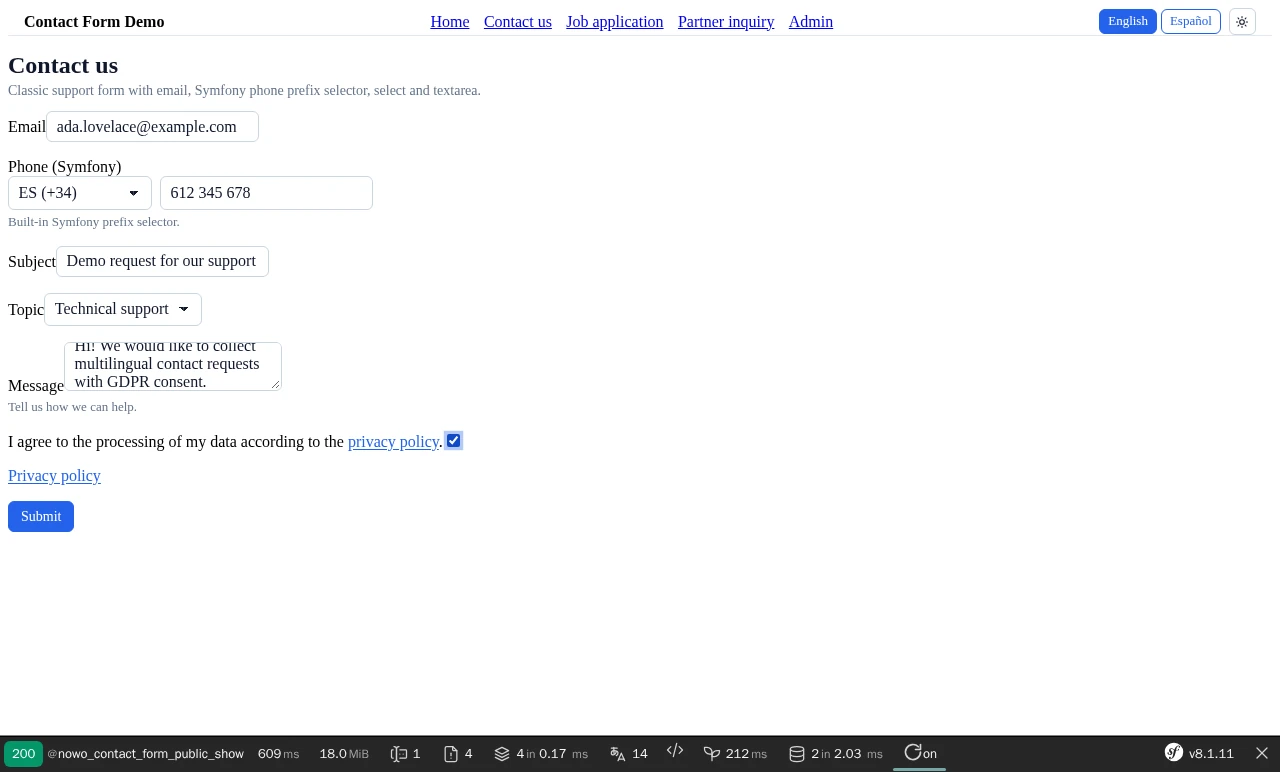
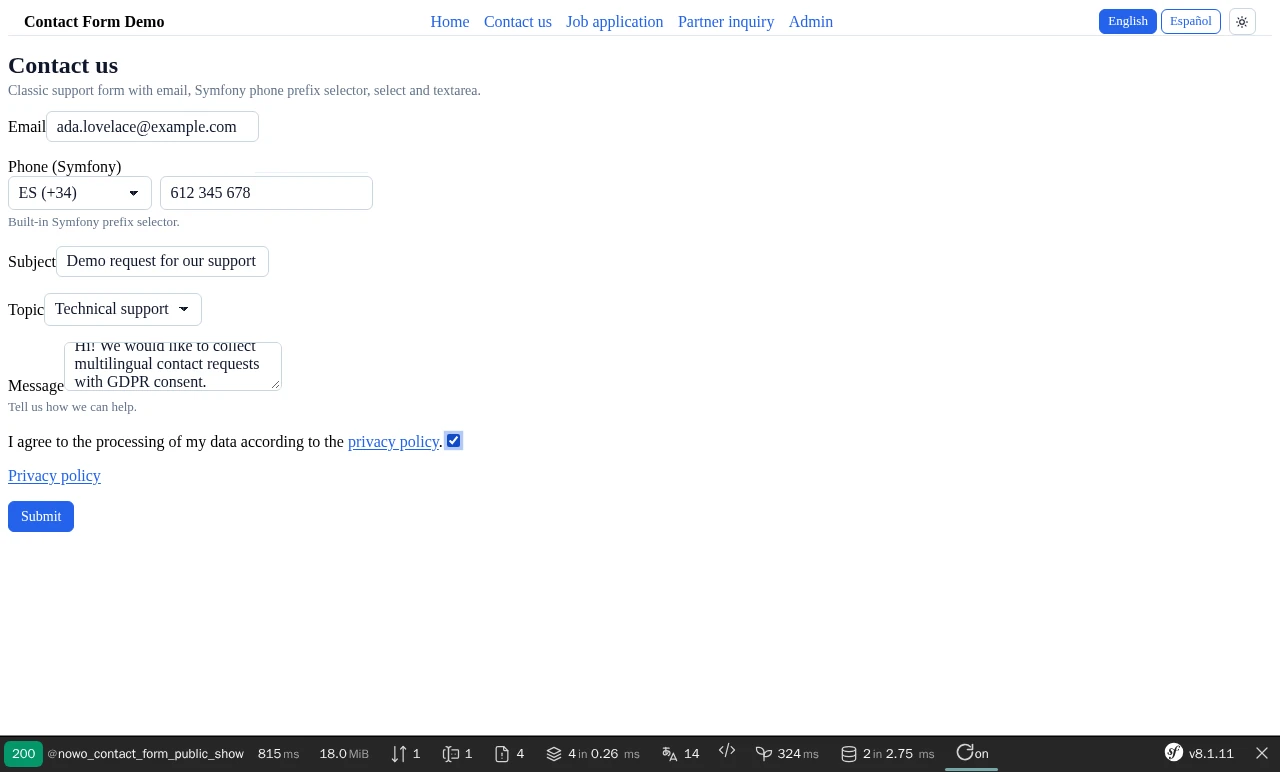
docs(demo): align demo with UiKit and FormKit

diff --git a/demo/symfony8/public/css/demo.css b/demo/symfony8/public/css/demo.css
@@ -1,9 +1,5 @@
-/* Contact form demo: only bundle-specific styling; the base style is UiKit's default theme, unchanged. */
-.demo-code {
-    font-size: 0.875rem;
-}
-
-/* ContactPhoneType (Symfony widget): prefix select + number side by side. */
+/* ContactPhoneType (the bundle's own widget, no UiKit equivalent): prefix select + number side by side. UiKit's default
+   theme does the rest; nothing is overridden. */
 .nowo-contact-form-phone {
     display: flex;
     gap: 0.5rem;

diff --git a/docs/CHANGELOG.md b/docs/CHANGELOG.md
@@ -62,6 +62,10 @@ The format is based on [Keep a Changelog](https://keepachangelog.com/en/1.0.0/).
 
 ## [Unreleased]
 
+### Changed
+
+- Demo: aligned with UiKit. The masthead menu uses `nowo-ui-menu` / `nowo-ui-link` with `demo-nav-*` test ids, the home page uses the UiKit page header, and `public/css/demo.css` is down to the layout of the bundle's own phone widget (the unused `.demo-code` rule is gone).
+
 ## [1.12.1] - 2026-11-20
 
 ### Fixed
